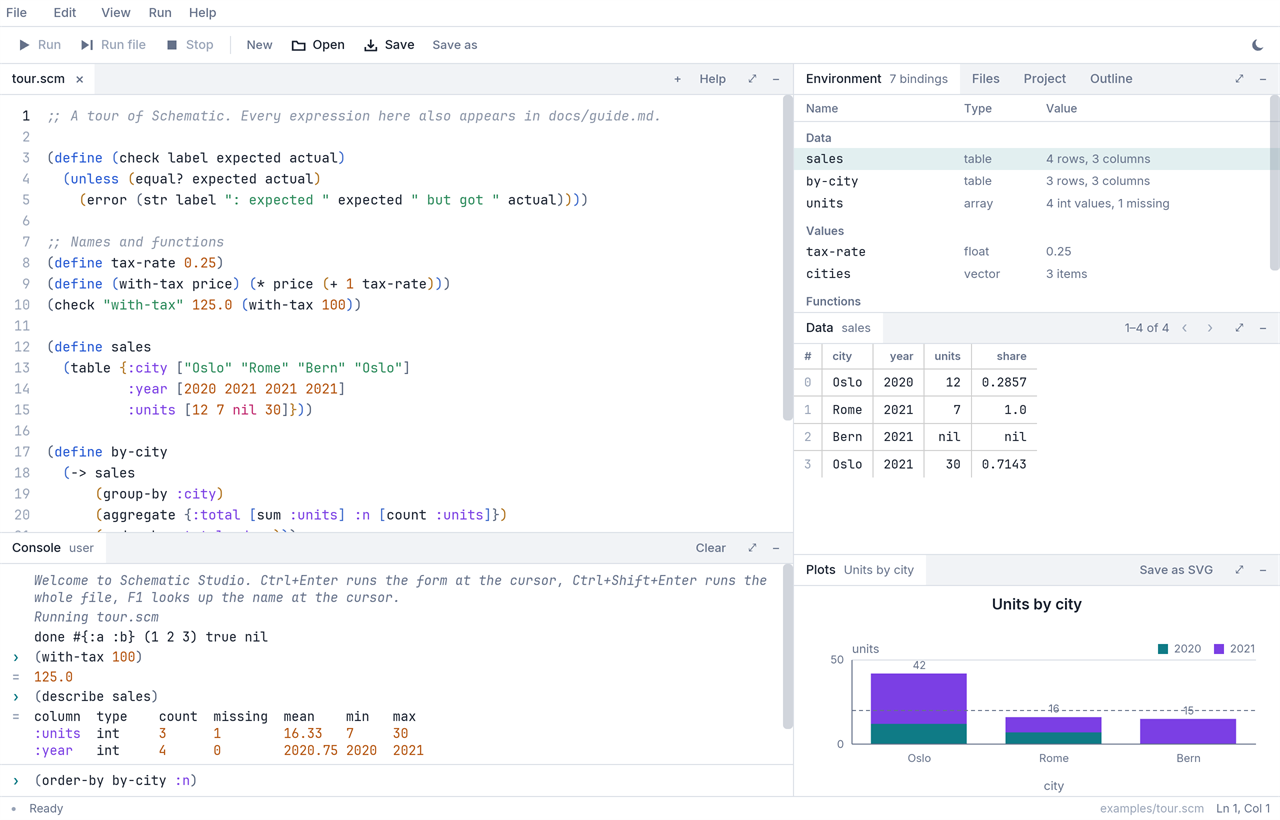
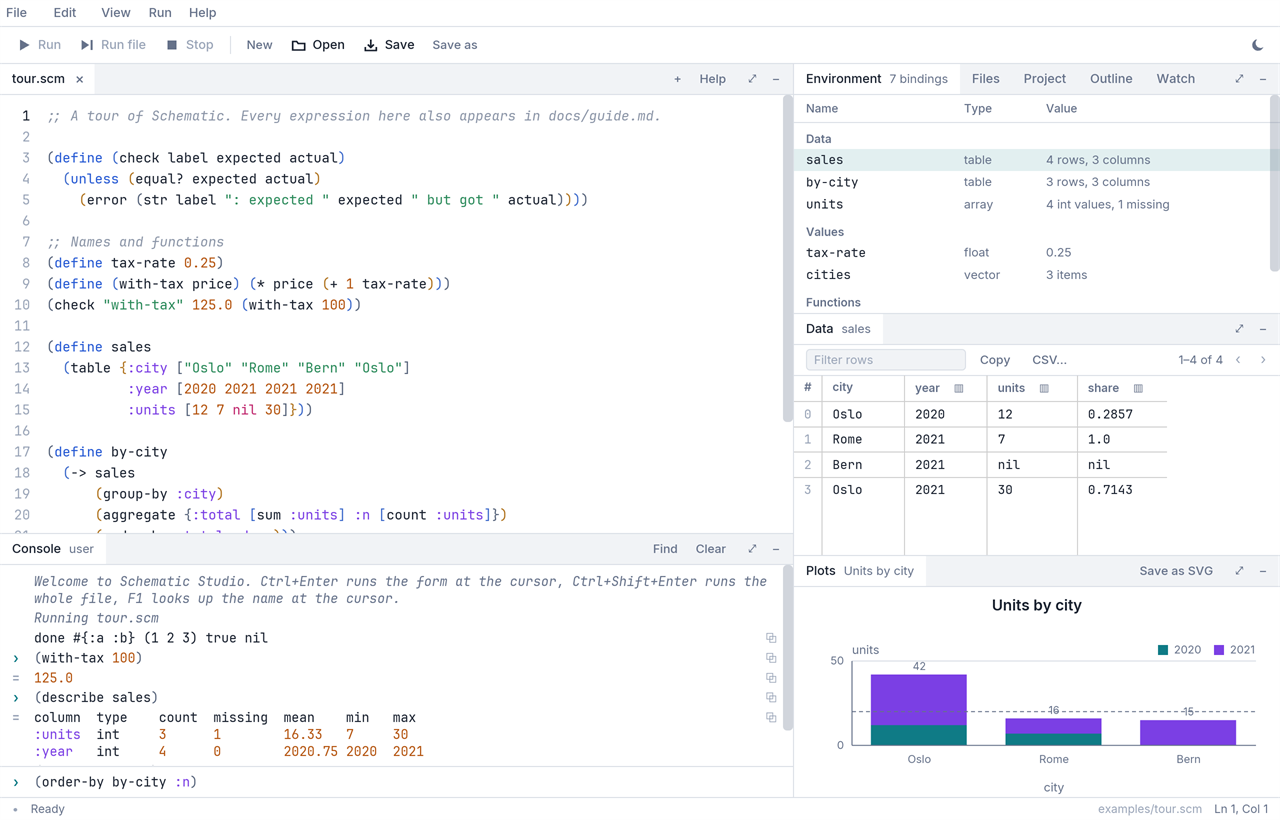
Document the data, console, watch, and project tools in Studio

diff --git a/README.md b/README.md
@@ -101,7 +101,12 @@ values, and functions, sharing its pane with Files, Project, and Outline
 tabs; a data grid with numbers right-aligned; and a plots pane that walks
 through the session's charts, shows values on hover, and saves them as SVG.
 File, Edit, View, Run, and Help menus hold every action with its shortcut,
-and Ctrl+Shift+P opens a command palette that runs any of them by name.
+and Ctrl+Shift+P opens a command palette that runs any of them by name. The
+data grid sorts by a column, filters rows, copies rows as text, exports a
+table as CSV, and shows column statistics and histograms; the console has
+find, one-click copy, and transcripts saved and loaded as Markdown; a Watch
+tab re-evaluates expressions after every run; the interpreter can be
+restarted; and File has a New project dialog.
 A Help tab renders the guide and the reference with search, F1 looks up
 the name under the cursor, and a Project tab creates a project in the open
 folder, adds and removes packages, and restores them. The type checker runs

diff --git a/docs/guide.md b/docs/guide.md
@@ -44,7 +44,10 @@ Ctrl+H, and grows the selection to the enclosing form with Ctrl+Shift+Up.
 An Outline tab lists the file's definitions, the menus at the top hold
 every action with its shortcut, and Ctrl+Shift+P opens a command palette
 that runs any of them by name; typing a colon and a number there jumps to
-that line.
+that line. The data pane sorts by a column header, filters rows, copies
+rows, exports a table as CSV, and plots a column's histogram from its
+header; the console finds text, copies any line, and saves its transcript
+as Markdown; and a Watch tab keeps expressions evaluated after every run.
 
 ## Expressions
 
